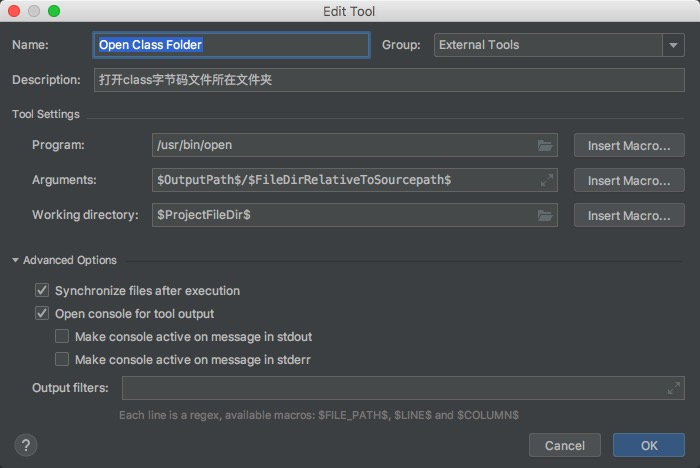
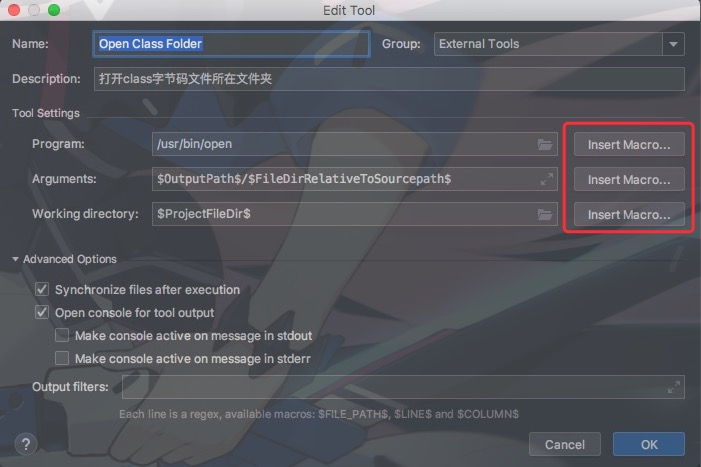
˚

diff --git a/_posts/2018-09-07-idea-external-tools.md b/_posts/2018-09-07-idea-external-tools.md
@@ -47,6 +47,11 @@ tags:
 
 ![](/img/2018-09/external-tools-8.png)
 
+红框中的三个选项分别是：
+- `Program`：程序，可以选择jdk/bin/java等指令，也可选择系统指令和其他第三方应用指令
+- `Parameters`：参数，可以选择文件路径、名称等各种参数
+- `Working directory`：工作目录
+
 `Echo` 和 `Open` 指令比较特殊，使用的并不是jdk的指令，而是第三方应用指令和系统指令，更多组合请自行摸索。
 
 # 注意
